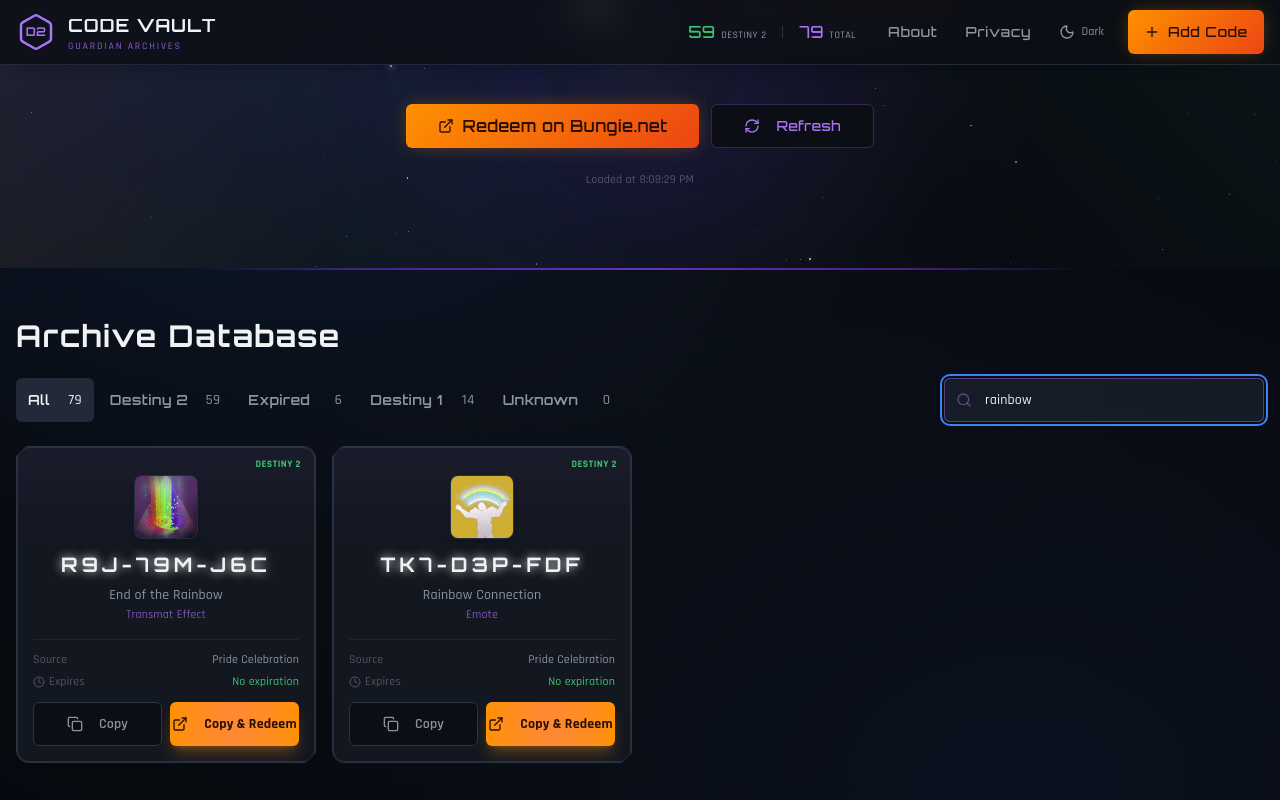
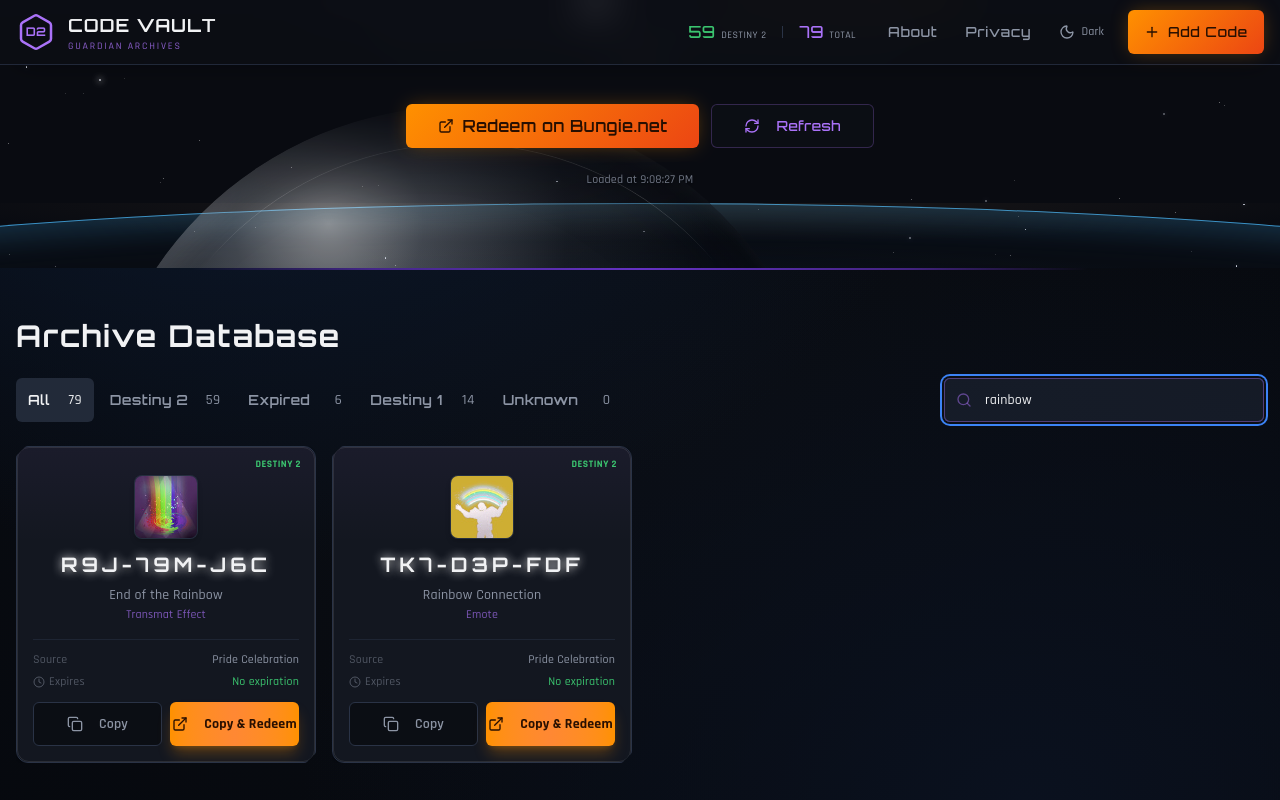
Hang the Traveler in the hero sky
The cards, glitch codes, and title stay. The hero is the Tower at night: a pearl sphere over a thin atmosphere, with the stars kept clear of the title. The Void wash across the top stays.

Changed region(s): [[0.0, 0.0625, 1.0, 0.3438]]

diff --git a/src/index.css b/src/index.css
@@ -952,30 +952,98 @@
     }
   }
 
-  /* Traveler silhouette */
-  .traveler-bg {
-    position: absolute;
-    bottom: -20%;
-    left: 50%;
-    transform: translateX(-50%);
-    width: 600px;
-    height: 600px;
-    background: radial-gradient(circle, rgba(124, 58, 237, 0.03) 0%, transparent 70%);
-    border-radius: 50%;
-    pointer-events: none;
+  /* Tower night. The wash above this stays a 5% Void tint, so the
+     top of the field stays dark and the sphere sits low, where the wash is gone. */
+  .hero-sky {
+    --background: 220 30% 6%;
+    --foreground: 220 10% 95%;
+    --muted-foreground: 220 12% 60%;
+    --accent: 265 90% 71%;
+    --accent-foreground: 220 30% 6%;
+    --border: 220 25% 22%;
+    --solar: 34 100% 50%;
+    --solar-secondary: 14 85% 50%;
+    --solar-accent: 25 100% 60%;
+    --solar-foreground: 22 95% 8%;
+    --arc: 202 100% 65%;
+    background:
+      radial-gradient(ellipse 100% 42% at 50% 120%, hsl(210 42% 16% / 0.55), transparent 62%),
+      hsl(220 32% 5%);
+    color: hsl(var(--foreground));
   }
 
-  .traveler-bg::before {
+  .oled-mode .hero-sky {
+    --background: 0 0% 0%;
+    background: #000;
+  }
+
+  /* Earth's atmosphere, a thin arc along the bottom. No continents. */
+  .hero-limb {
+    position: absolute;
+    left: -35%;
+    right: -35%;
+    bottom: -42%;
+    height: 58%;
+    border-radius: 50%;
+    pointer-events: none;
+    box-shadow:
+      inset 0 1px 0 0 hsl(var(--arc) / 0.7),
+      inset 0 12px 28px hsl(var(--arc) / 0.18),
+      inset 0 36px 70px hsl(205 70% 40% / 0.06);
+  }
+
+  .hero-limb::before {
     content: '';
     position: absolute;
-    top: 50%;
-    left: 50%;
-    transform: translate(-50%, -50%);
-    width: 200px;
-    height: 200px;
+    left: 18%;
+    right: 18%;
+    top: 0;
+    height: 2.5rem;
+    background: radial-gradient(ellipse at 50% 0%, hsl(32 45% 58% / 0.1), transparent 72%);
+  }
+
+  /* The Traveler. Pearl, lit from the upper left, cropped so only the crown shows. */
+  .hero-traveler {
+    position: absolute;
+    left: 36%;
+    bottom: 0;
+    width: clamp(26rem, 62vw, 46rem);
+    aspect-ratio: 1;
+    transform: translate(-50%, 78%);
     border-radius: 50%;
-    background: radial-gradient(circle, rgba(255,255,255,0.02) 0%, transparent 70%);
-    box-shadow: 0 0 100px 50px rgba(124, 58, 237, 0.05);
+    pointer-events: none;
+    background:
+      radial-gradient(circle at 32% 16%,
+        hsl(0 0% 100% / 0.5) 0%,
+        hsl(214 28% 88% / 0.28) 12%,
+        hsl(216 16% 64% / 0.1) 30%,
+        hsl(220 22% 34% / 0.04) 48%,
+        transparent 64%),
+      radial-gradient(circle at 76% 34%,
+        hsl(222 45% 3% / 0.55) 0%,
+        transparent 42%);
+    box-shadow:
+      inset -36px 8px 70px hsl(222 45% 3% / 0.45),
+      inset 14px 6px 24px hsl(0 0% 100% / 0.14),
+      0 0 64px 6px hsl(210 40% 82% / 0.05);
+    -webkit-mask-image: linear-gradient(to bottom, transparent 0%, #000 16%, #000 100%);
+    mask-image: linear-gradient(to bottom, transparent 0%, #000 16%, #000 100%);
+  }
+
+  /* One shell latitude, parallel to the silhouette, not a chord across the disc. */
+  .hero-traveler-ring {
+    position: absolute;
+    inset: 5%;
+    border-radius: 50%;
+    border: 1px solid hsl(210 40% 100% / 0.2);
+    -webkit-mask-image: linear-gradient(to bottom, #000 0%, #000 8%, transparent 18%);
+    mask-image: linear-gradient(to bottom, #000 0%, #000 8%, transparent 18%);
+  }
+
+  .hero-loaded {
+    text-shadow:
+      0 1px 2px hsl(220 40% 4% / 0.9),
+      0 0 14px hsl(220 40% 4% / 0.75);
   }
 
   /* 2. CODE CARDS - Enhanced Shine & Rarity Borders */
@@ -1193,29 +1261,6 @@
     );
     pointer-events: none;
     opacity: 0.3;
-  }
-
-  /* Aurora background effect */
-  .aurora-bg {
-    background: 
-      linear-gradient(125deg, 
-        hsl(var(--accent) / 0.1) 0%,
-        transparent 40%
-      ),
-      linear-gradient(225deg, 
-        hsl(var(--strand) / 0.08) 0%,
-        transparent 40%
-      ),
-      linear-gradient(45deg, 
-        hsl(var(--solar) / 0.05) 0%,
-        transparent 40%
-      );
-    animation: aurora-shift 10s ease-in-out infinite alternate;
-  }
-
-  @keyframes aurora-shift {
-    0% { filter: hue-rotate(0deg); }
-    100% { filter: hue-rotate(30deg); }
   }
 
   /* Destiny-style orbit loader */

diff --git a/src/components/HeroSection.tsx b/src/components/HeroSection.tsx
@@ -8,21 +8,39 @@ interface HeroSectionProps {
   isLoading: boolean;
 }
 
-function generateStars(count: number) {
-  return Array.from({ length: count }, (_, i) => {
+interface SkyStar {
+  id: number;
+  left: string;
+  top: string;
+  size: number;
+  duration: number;
+  delay: number;
+  tier: 'bright' | 'mid' | 'dim';
+}
+
+function generateStars(count: number): SkyStar[] {
+  const stars: SkyStar[] = [];
+  let guard = 0;
+  while (stars.length < count && guard < 900) {
+    guard += 1;
+    const left = Math.random() * 100;
+    const top = Math.random() * 100;
+    // The lockup sits in the middle. Keep that band clear.
+    if (left > 16 && left < 84 && top > 16 && top < 74) continue;
     const roll = Math.random();
     const tier = roll > 0.94 ? 'bright' : roll > 0.72 ? 'mid' : 'dim';
     const size = tier === 'bright' ? 2 : tier === 'mid' ? 1.5 : 1;
-    return {
-      id: i,
-      left: `${Math.random() * 100}%`,
-      top: `${Math.random() * 100}%`,
+    stars.push({
+      id: stars.length,
+      left: `${left}%`,
+      top: `${top}%`,
       size,
       duration: (tier === 'dim' ? 4.5 : 3) + Math.random() * 4,
       delay: Math.random() * 8,
       tier,
-    };
-  });
+    });
+  }
+  return stars;
 }
 
 export function HeroSection({ lastUpdate, onRefresh, isLoading }: HeroSectionProps) {
@@ -35,7 +53,11 @@ export function HeroSection({ lastUpdate, onRefresh, isLoading }: HeroSectionPro
   ], []);
 
   return (
-    <section className="relative py-16 md:py-20 overflow-hidden">
+    <section className="hero-sky relative py-16 md:py-20 overflow-hidden">
+      <div className="hero-limb" aria-hidden="true" />
+      <div className="hero-traveler" aria-hidden="true">
+        <span className="hero-traveler-ring" />
+      </div>
       <div className="stars-container">
         {stars.map((star) => (
           <div
@@ -69,10 +91,7 @@ export function HeroSection({ lastUpdate, onRefresh, isLoading }: HeroSectionPro
         ))}
       </div>
 
-      <div className="traveler-bg" aria-hidden="true" />
-      <div className="absolute inset-0 aurora-bg" />
       <div className="absolute inset-0 bg-gradient-to-b from-accent/5 via-transparent to-transparent" />
-      <div className="absolute top-1/2 left-1/2 -translate-x-1/2 -translate-y-1/2 w-[600px] h-[400px] bg-accent/5 rounded-full blur-3xl" />
 
       <div className="relative container mx-auto px-4 text-center">
         <div className="space-y-5 mb-10">
@@ -109,7 +128,7 @@ export function HeroSection({ lastUpdate, onRefresh, isLoading }: HeroSectionPro
         </div>
 
         {lastUpdate && (
-          <p className="mt-6 text-xs text-muted-foreground/50" role="status" aria-live="polite">
+          <p className="hero-loaded mt-6 text-xs text-muted-foreground/80" role="status" aria-live="polite">
             Loaded at {lastUpdate.toLocaleTimeString()}
           </p>
         )}

diff --git a/README.md b/README.md
@@ -315,6 +315,14 @@ This release directly addresses community feedback from [r/DestinyTheGame](https
 ### Version
 - Bumped `package.json` version to **2.4.0**
 
+## 📋 v2.9.6 Updates (November 2026)
+
+The hero is the Tower at night. A pearl sphere hangs low over a thin atmosphere, and the Void wash across the top stays.
+
+- The Traveler is bone-white and cropped along the bottom of the title.
+- Earth's limb is a thin arc. The field stays dark in light mode so the sphere still reads.
+- Stars stay clear of the title. The cards, glitch codes, and solar word stay.
+
 ## 📋 v2.9.5 Updates (November 2026)
 
 The bar uses the same names as the catalogue. Counts stay on a tablet. The clock under the title is when this browser loaded the list.
